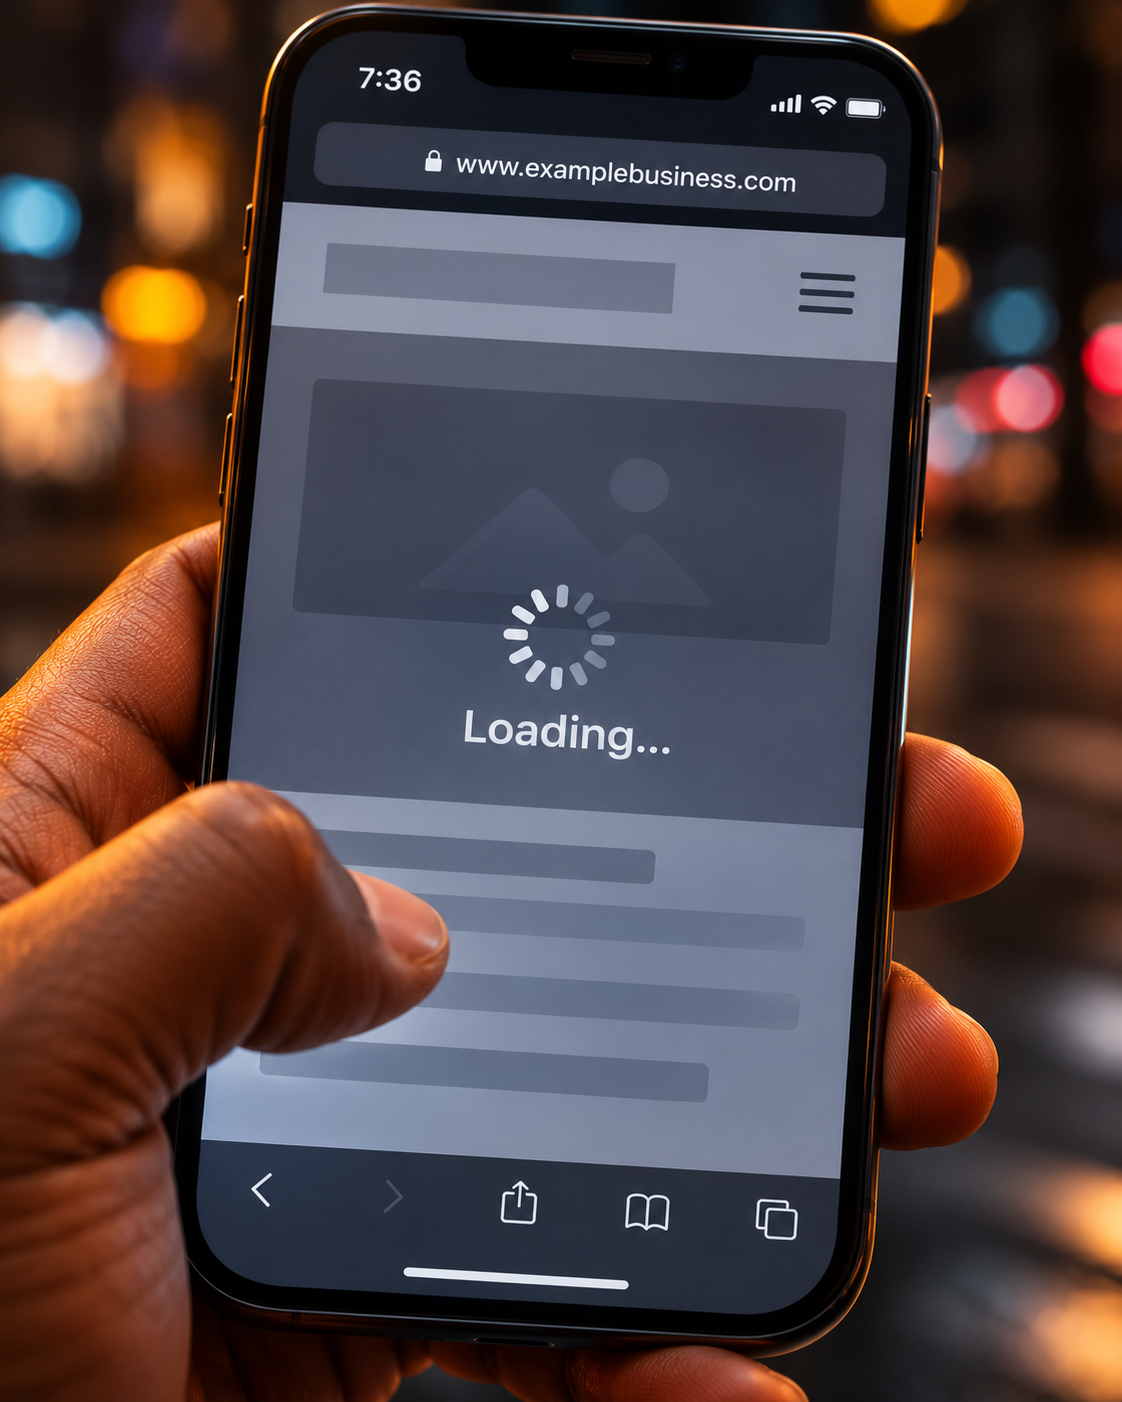
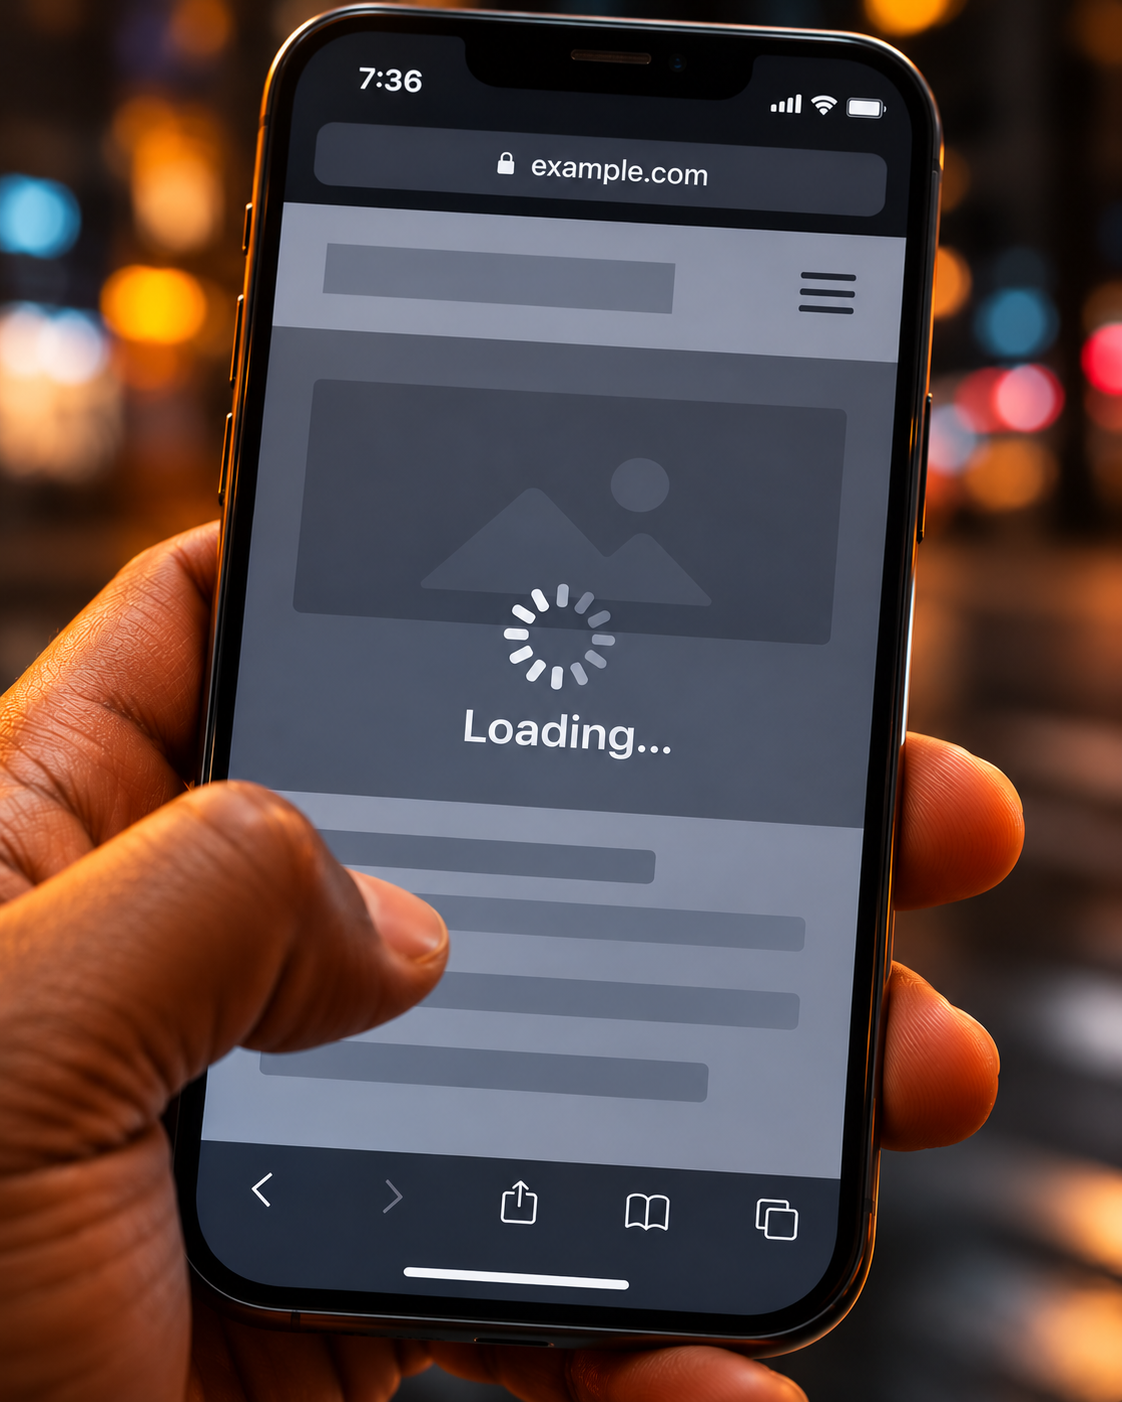
story-pass: replace rr-slow-page with example.com URL version
Claude-Session: https://claude.ai/code/session_01FnXwby9gJNH43FLVJiRKHN

diff --git a/design-inputs/story-pass/REVIEW.md b/design-inputs/story-pass/REVIEW.md
@@ -12,4 +12,4 @@ Remaining: 35 files, status RENDER_REQUIRED (see manifest-from-chatgpt.json). Le
 | rr-broken-form.png | 1672×941 (16:9; list said 4:5) | APPROVED | Error copy exact; Submit button cut off by the screen edge = the story; plausible hands; no faces/logos. Slot uses 16:9.
 | rr-no-follow-up.png | 1672×941 (16:9) | APPROVED | Exact copy ("Following up on your quote", "No reply — 9 days"); stained cold mug + Follow up/Call/Confirm/Close note sell the story; no faces, no visible logos; blurred rows read as placeholders. |
 | rr-wrong-page.png | 1671×941 (16:9) | APPROVED | Ad copy exact ("Free brake inspection"); landing page shows no brake mention anywhere = the story; arrow + red X read instantly; generic phones, no logos, no faces. |
-| rr-slow-page.png | 1122×1402 (4:5) | APPROVED (condition) | Story reads instantly: grey skeleton, spinner, "Loading...", thumb drifting to back. Condition: URL bar shows "www.examplebusiness.com", which may be a real registered domain; swap to "example.com" (IANA-reserved) if a regen/edit is available. Pixel blur attempt rejected (visible box edges on the tilted bar). |
+| rr-slow-page.png | 1122×1402 (4:5) | APPROVED | Story reads instantly: grey skeleton, spinner, "Loading...", thumb drifting to back. URL edited to "example.com" (IANA-reserved); rest of frame unchanged. |
